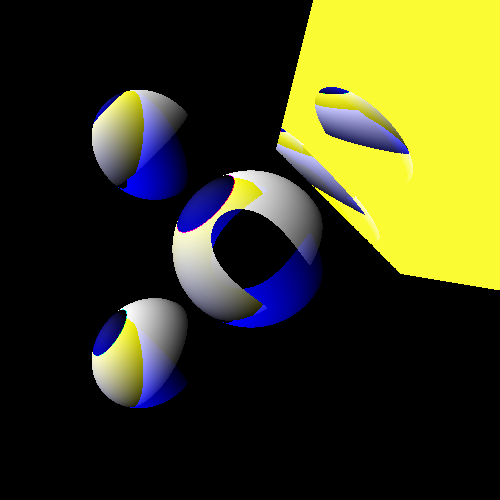
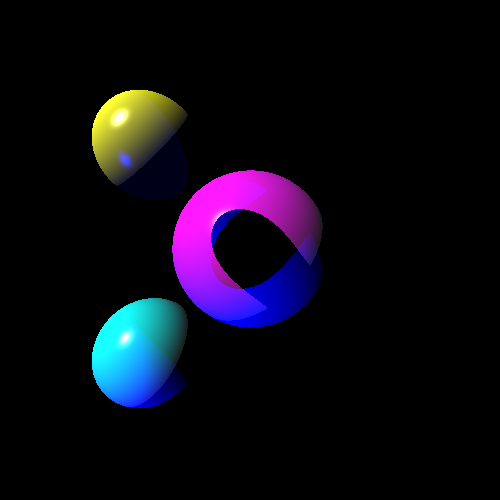
shading correct, triangle bugs

diff --git a/Triangle.cpp b/Triangle.cpp
@@ -30,7 +30,8 @@ bool Triangle::intersect(Ray& ray, float* thit, LocalGeo* local){
 	glm::vec3 matrix_point = ray.position-a; //these formulae from slides
 
 	glm::mat3 bary_matrix(vec1[0],vec2[0],vec3[0],vec1[1],vec2[1],vec3[1],vec1[2],vec2[2],vec3[2]);
-
+	// glm::mat3 bary_matrix(vec1[0],vec1[1],vec1[2],vec2[0],vec2[1],vec2[2],vec3[0],vec3[1],vec3[2]);
+	
 	float determ = glm::determinant(bary_matrix);
 	if (determ==0){
 		return false;
@@ -51,7 +52,7 @@ bool Triangle::intersect(Ray& ray, float* thit, LocalGeo* local){
 		glm::vec3 normal = glm::cross(vec1,vec2);
 		normal /= glm::sqrt(glm::dot(normal,normal));
 		local->normal = normal;
-		local->point = ray.position+*thit*ray.direction;
+		local->point = ray.position+(*thit)*ray.direction;
 		return true;
 	}else{
 		return false;

diff --git a/main.cpp b/main.cpp
@@ -138,7 +138,7 @@ int main(int argc, char *argv[]) {
 	vector<glm::vec3> vertexnorm_n;
 	glm::vec3 ka(.2f, .2f, .2f);
 	glm::vec3 kd,ks,kr;
-	float sp;
+	float sp = 1;
 
 	// Arg Parser
 	std::ifstream inpfile(filename.c_str());
@@ -194,7 +194,7 @@ int main(int argc, char *argv[]) {
 				//   Store 4 numbers
 				//   Store current property values
 				//   Store current top of matrix stack
-				Sphere* sph = new Sphere(glm::vec3(x,y,z),r,ka,ks,kd,kr,sp);
+				Sphere* sph = new Sphere(glm::vec3(x,y,z),r,ka,kd,ks,kr,sp);
 				s.add_shape(sph);
 			}
 

diff --git a/scene.cpp b/scene.cpp
@@ -110,12 +110,6 @@ void Scene::trace(Ray &r, glm::vec3 *color) {
 			break;
 		}
 
-		// obtain BRDF at intersection point
-		// BRDF brdf = best_shape.brdf;
-		// BRDF brdf(ka,kd,ks,kr);
-
-		//in.primitive->getBRDF(in.local, &brdf);
-
 		//There is an intersection, loop through all light sources
 		Ray lray;
 		glm::vec3 lcolor(0.0f,0.0f,0.0f);
@@ -232,7 +226,6 @@ void Scene::add_shape(Shape* s) {
 void Scene::add_light(Light* l) {
 	lights.push_front(l);
 }
-
 
 
 

diff --git a/Film.cpp b/Film.cpp
@@ -22,6 +22,17 @@ Film::Film(int width, int height, int BitsPerPixel, std::string fname) {
 
 void Film::commit(int x, int y, glm::vec3 color) {
 	RGBQUAD free_image_color;
+
+	if (color[0] > 1.0f) {
+		color[0] = 1.0f;
+	}
+	if (color[1] > 1.0f) {
+		color[1] = 1.0f;
+	}
+	if (color[2] > 1.0f) {
+		color[2] = 1.0f;
+	}
+	
 	free_image_color.rgbRed = color[0] * 255.0f;
 	free_image_color.rgbGreen = color[1] * 255.0f;
 	free_image_color.rgbBlue = color[2] * 255.0f;
